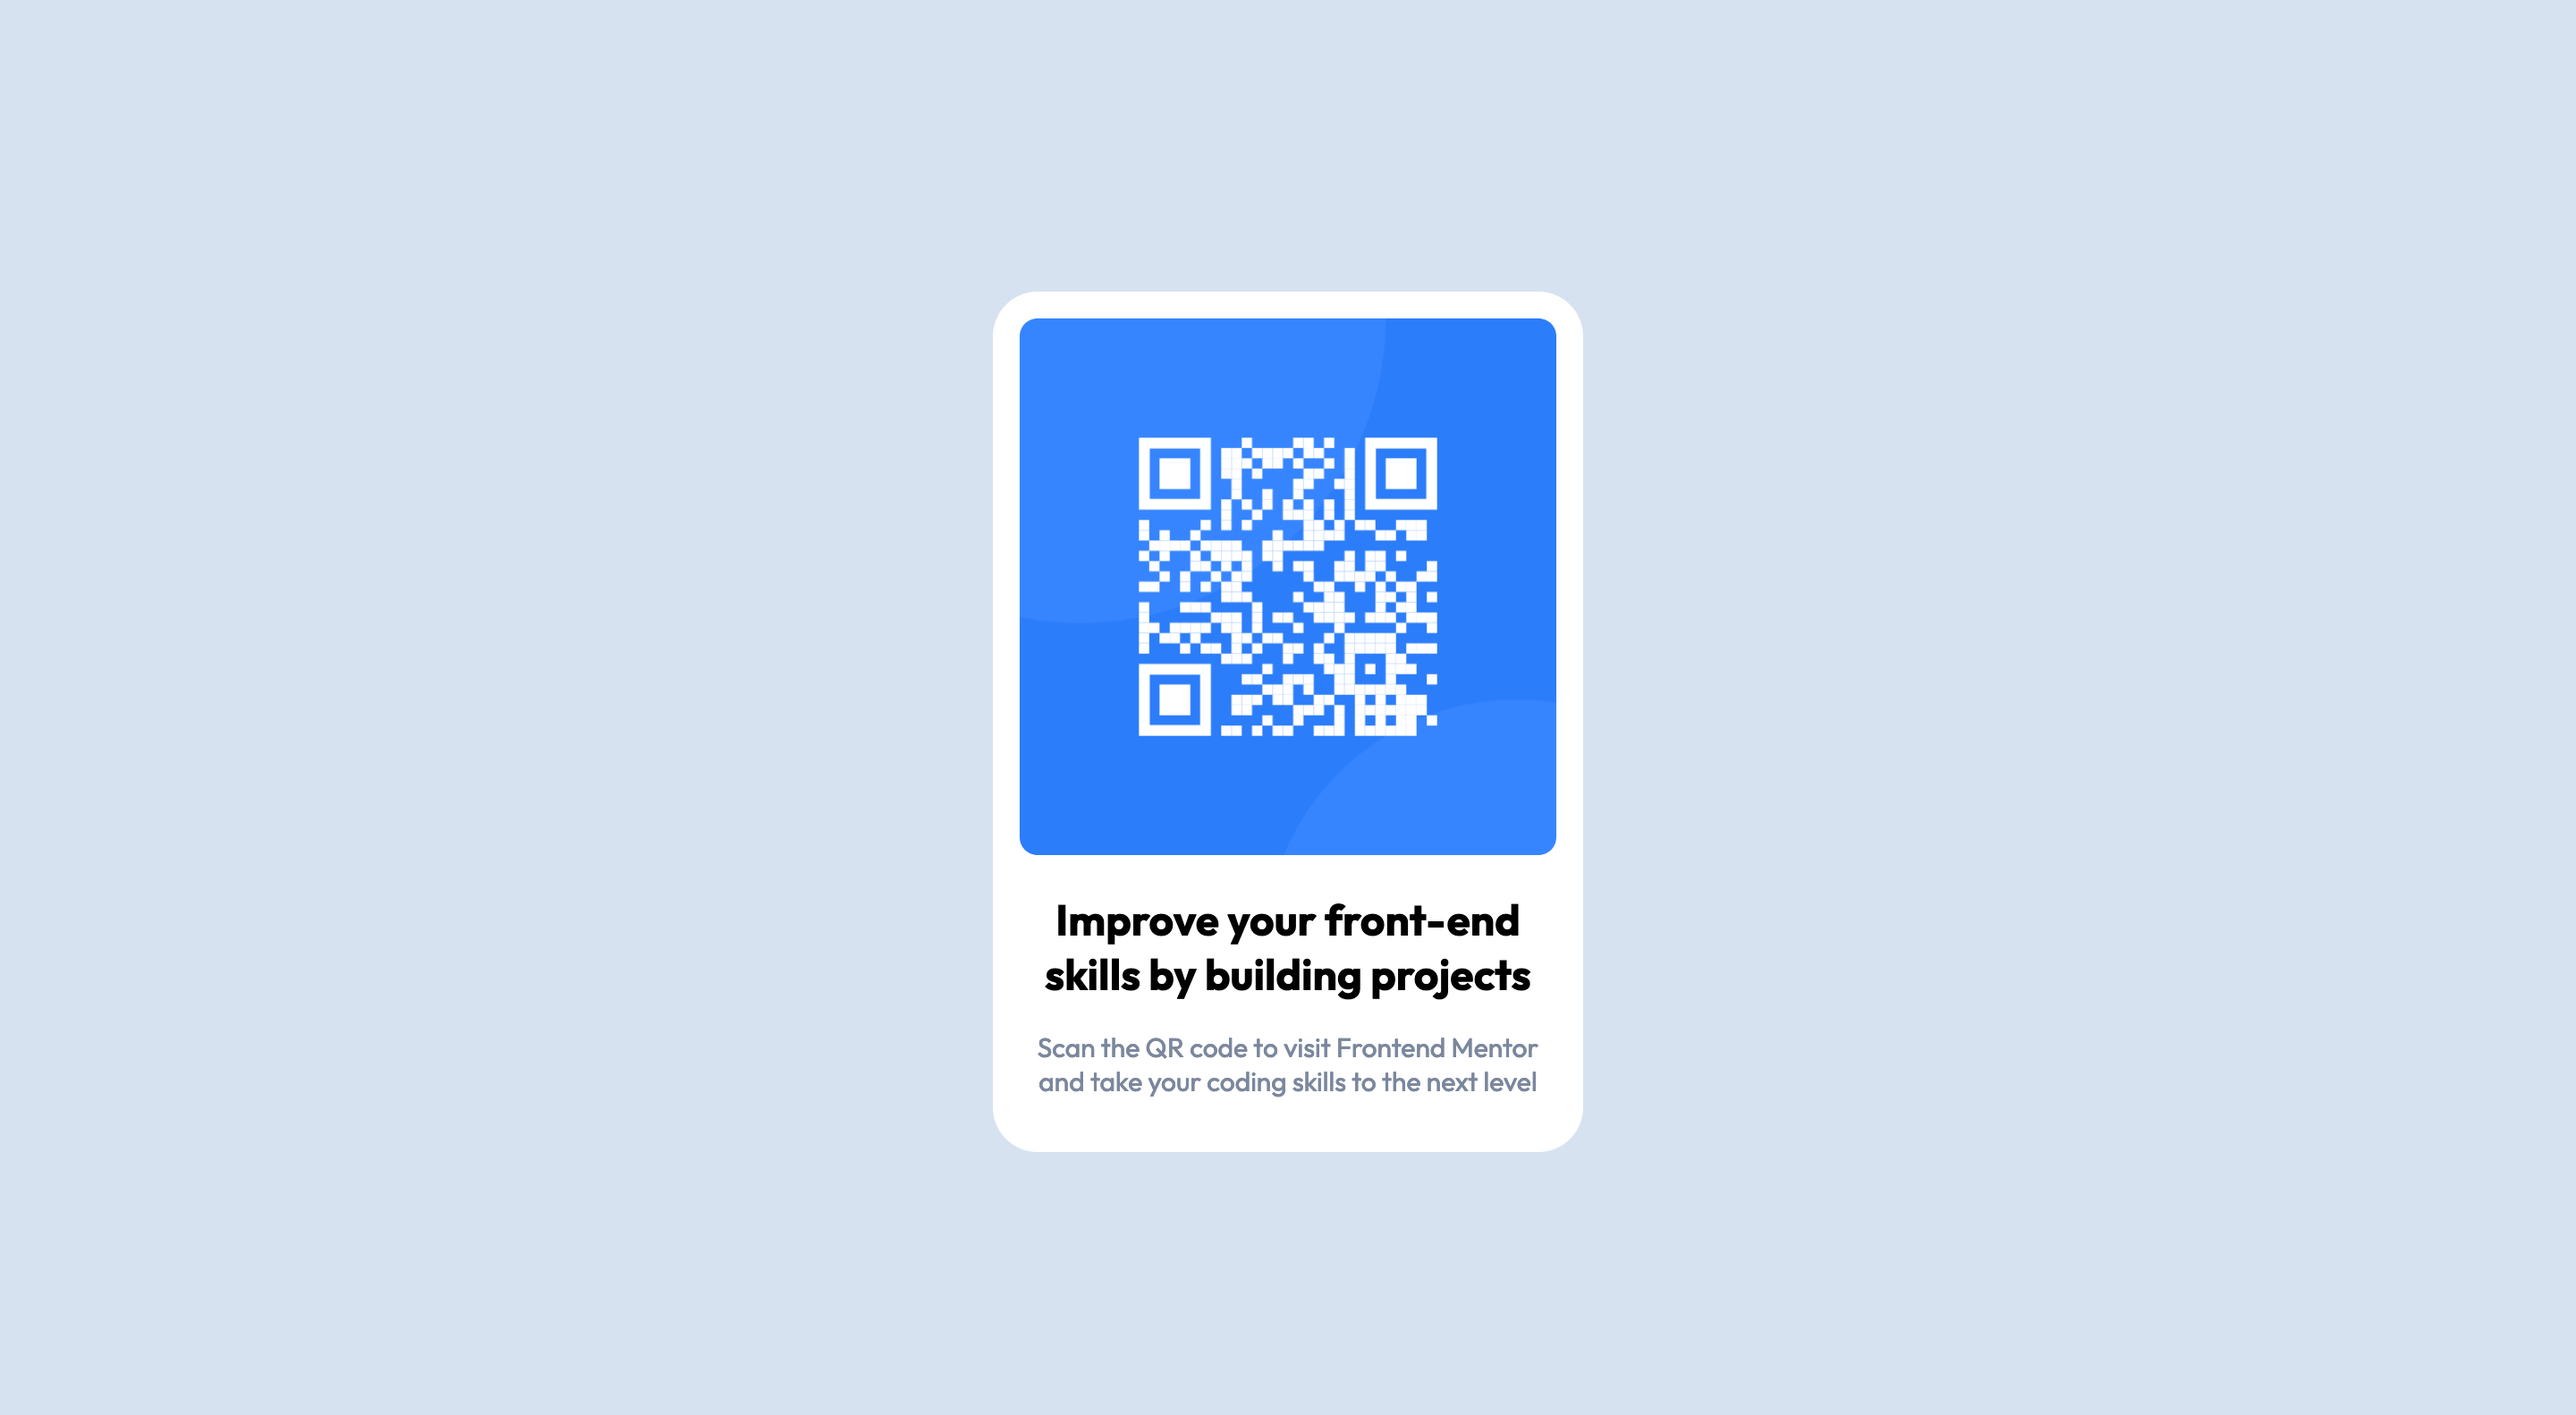
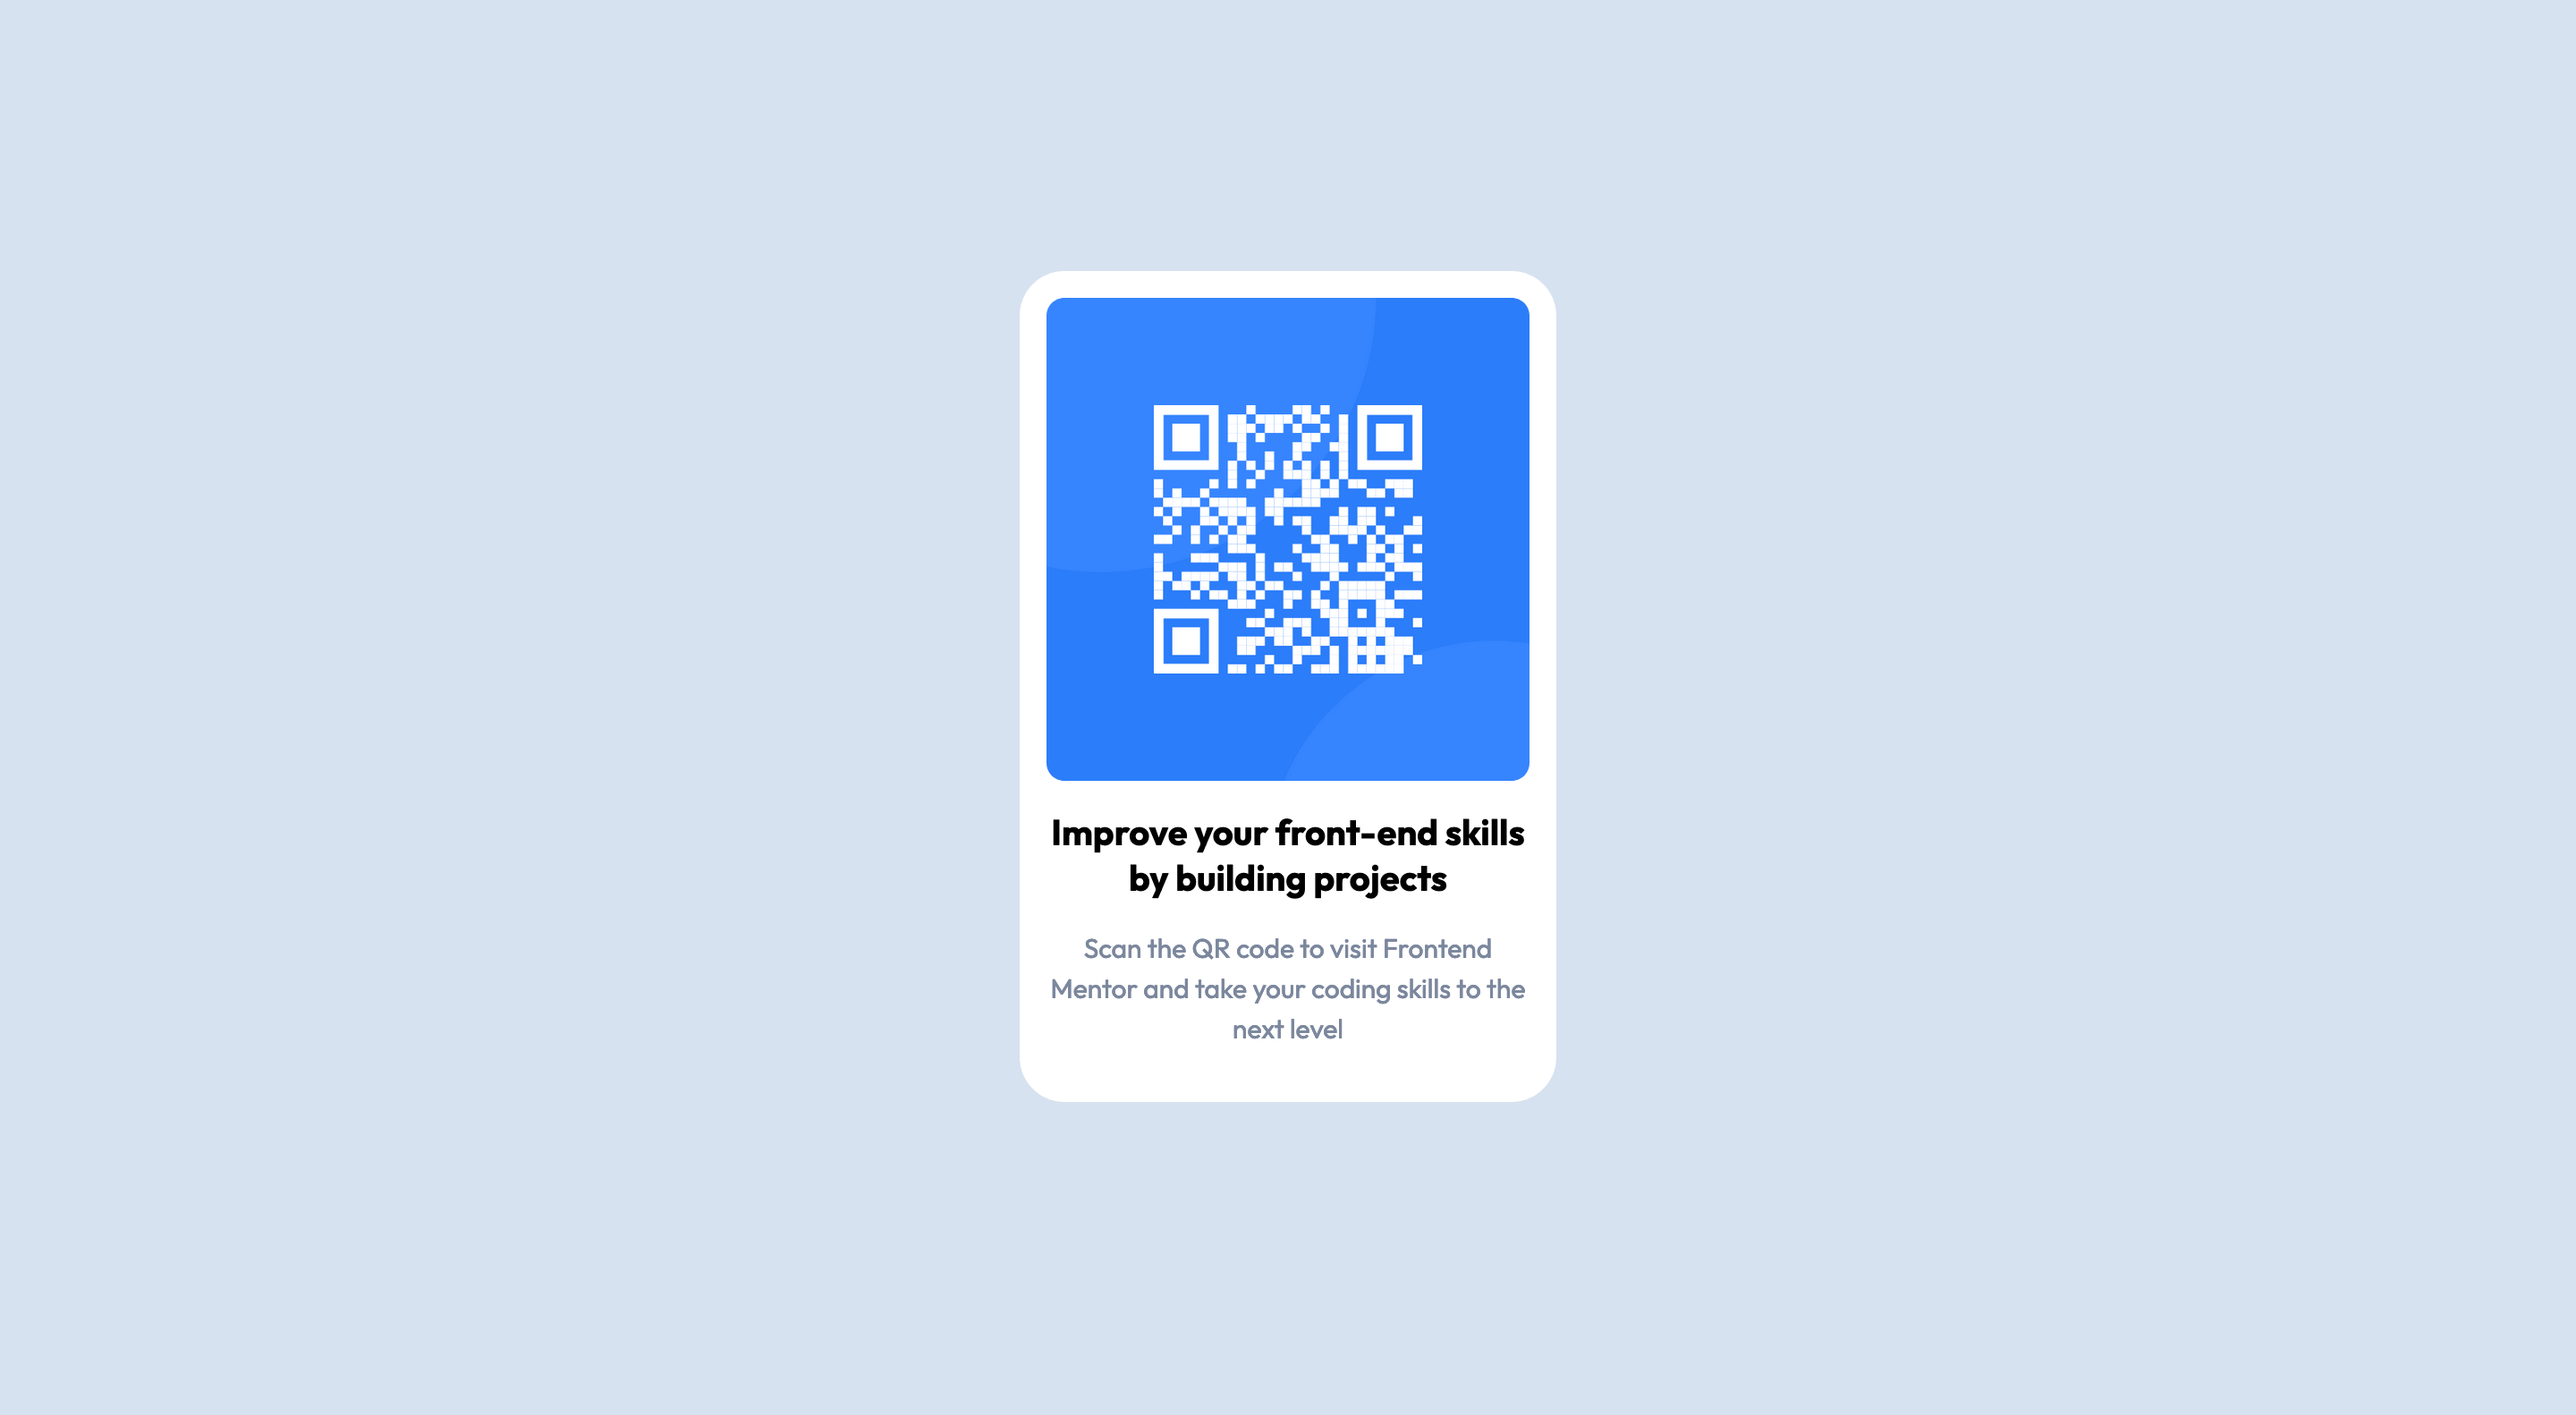
minor improvements

Changed region(s): [[0.375, 0.1858, 0.625, 0.8363]]

diff --git a/css/style.css b/css/style.css
@@ -5,6 +5,18 @@
     --dark-blue: hsl(218, 44%, 22%);
 }
 
+html {
+    font-size: 62.5%;
+    box-sizing: border-box;
+    /* Box Model Hack **/
+}
+
+*,
+*:before,
+*:after {
+    box-sizing: inherit;
+}
+
 body {
     display: flex;
     justify-content: center;
@@ -15,8 +27,9 @@ body {
 }
 
 p {
-    font-size: 15px;
+    font-size: 1.5rem;
     font-weight: 400;
+    line-height: 1.5;
     color: var(--grayish-blue);
     text-align: center;
 }
@@ -27,20 +40,20 @@ a {
 }
 
 h1 {
-    font-size: 24px;
+    font-size: 2rem;
     font-weight: 700;
 }
 
 img {
     width: 100%;
-    border-radius: 10px;
+    border-radius: 1rem;
 }
 
-.card {
-    width: 300px;
+main {
+    width: 30rem;
     background-color: var(--white);
-    border-radius: 25px;
-    padding: 15px;
+    border-radius: 2.5rem;
+    padding: 1.5rem;
 }
 
 .text-info {

diff --git a/index.html b/index.html
@@ -17,7 +17,7 @@
 </head>
 
 <body>
-  <main class="card">
+  <main>
     <img src="img/image-qr-code.png" alt="qr code">
     <div class="text-info">
       <h1>Improve your front-end skills by building projects</h1>
